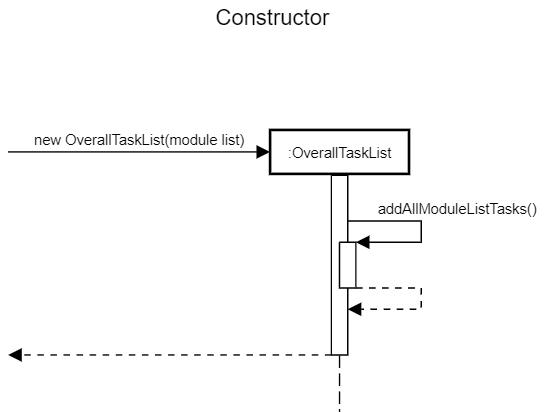
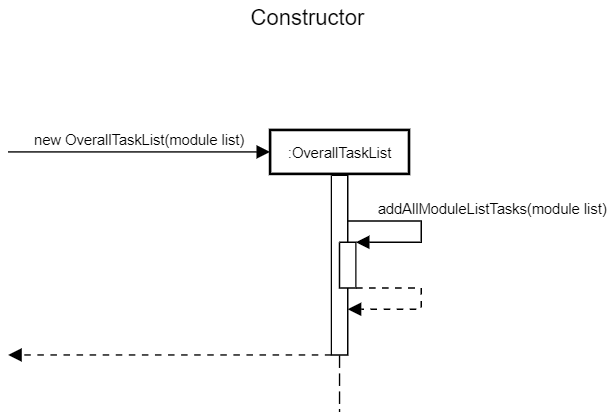
Fix overallTaskList sequence diagram

diff --git a/docs/DeveloperGuide.md b/docs/DeveloperGuide.md
@@ -4,10 +4,6 @@
 
 ## Acknowledgements
 
-{list here sources of all reused/adapted ideas, code, documentation, and third-party libraries -- include links to the
-original source as well}
-<br>
-<br>
 Third party libraries:
 
 - [Jackson Databind](https://mvnrepository.com/artifact/com.fasterxml.jackson.core/jackson-databind)
@@ -300,7 +296,7 @@ How the Overall`TaskList` class works:
 4. The constructor calls the method `addAllModuleListTasks(module list)` which adds all the tasks in the module list
    into `OverallTaskList`.
 5. Once the object is instantiated, the following methods can be called to sort and print the tasks in the
-   ArrayList `overallTaskList. `All sorting and filtering is done via `Java Streams`, and method details are omitted.
+   ArrayList `overallTaskList`. All sorting and filtering is done via `Java Streams`, and method details are omitted.
 
 * `sortByDateAndPrint() - Print all tasks sorted by deadline`
 * `sortByStatusAndPrint() - Print all tasks sorted by status(done)`
@@ -330,13 +326,13 @@ a `Semester`. It stores information from `GradableTask/Task `objects together wi
 4. `isLate`
 5. `Deadline`
 6. `isGradable`
-7. `Weightage `
+7. `Weightage`
 8. `moduleName`
 
 How the `OverallTask` component works:
 
-1. It inherits from `Task`, with additional attributes `isGradable, Weightage `and `moduleName. `
-2. The attributes `isGradable, Weightage `are added to provide more information for gradable tasks, while `moduleName`
+1. It inherits from `Task`, with additional attributes `isGradable`, `Weightage` and `moduleName`. 
+2. The attributes `isGradable`, `Weightage`are added to provide more information for gradable tasks, while `moduleName`
    is added to display module information.
 3. It can be instantiated with 2 different constructors:
     * `OverallTask(task: Task, moduleName: String)` - Instantiates using a `Task` object <br/>
@@ -346,9 +342,8 @@ How the `OverallTask` component works:
 
 4. During instantiation, information from `Task/GradableTask` objects are added to the `OverallTask` object together
    with their `moduleName.`
-5. Calling the  `toString()` method` `generates a string containing task information together with its `moduleName.`
+5. Calling the  `toString()` method generates a string containing task information together with its `moduleName`.
 
-{Describe the design and implementation of the product. Use UML diagrams and short code snippets where applicable.}
 
 # Appendix A: Product Scope
 
